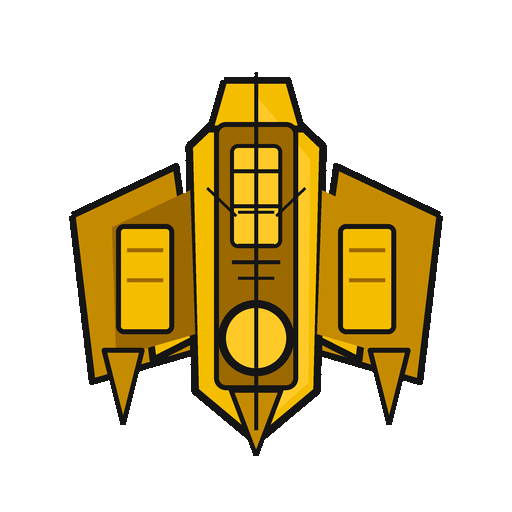
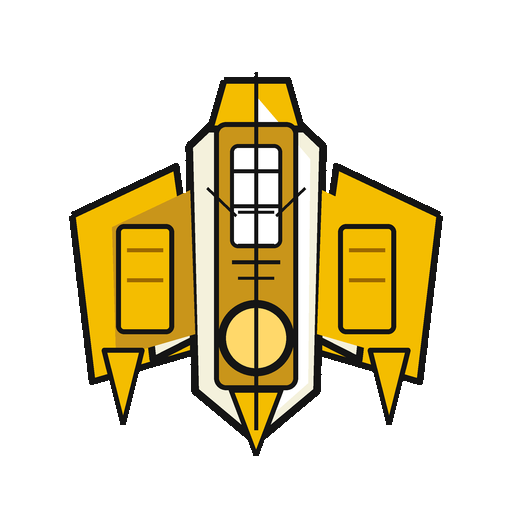
More Faction Color Rules, and Readability Work

Changed region(s): [[0.125, 0.1875, 0.875, 0.875]]

diff --git a/ReactSource/src/styles/stormCommander.css b/ReactSource/src/styles/stormCommander.css
@@ -309,7 +309,11 @@
 .storm-commander-root .storm-ship-piece {
   --storm-exhaust-core: #ff8c00;
   --storm-exhaust-flame: #ff6a00;
+  --storm-exhaust-tail: color-mix(in srgb, var(--storm-exhaust-flame) 45%, transparent);
   --storm-exhaust-glow: rgba(255, 106, 0, 0.41);
+  --storm-exhaust-glow-hot: var(--storm-exhaust-glow);
+  --storm-exhaust-scale: 1;
+  --storm-exhaust-smoke: transparent;
 
   position: relative;
   z-index: 2;
@@ -327,25 +331,35 @@
 .storm-commander-root .storm-ship-piece[data-faction='pirate'] {
   --storm-exhaust-core: #ff8c00;
   --storm-exhaust-flame: #ff6a00;
+  --storm-exhaust-tail: rgba(255, 106, 0, 0.45);
   --storm-exhaust-glow: rgba(255, 106, 0, 0.45);
+  --storm-exhaust-glow-hot: rgba(255, 138, 0, 0.34);
+  --storm-exhaust-scale: 1.1;
+  --storm-exhaust-smoke: rgba(7, 8, 6, 0.42);
 }
 
 .storm-commander-root .storm-ship-piece[data-faction='imperial'] {
-  --storm-exhaust-core: #ffe36d;
-  --storm-exhaust-flame: #f4bd00;
-  --storm-exhaust-glow: rgba(244, 189, 0, 0.41);
+  --storm-exhaust-core: #fffdf2;
+  --storm-exhaust-flame: #ffd24a;
+  --storm-exhaust-tail: rgba(244, 189, 0, 0.5);
+  --storm-exhaust-glow: rgba(255, 250, 221, 0.5);
+  --storm-exhaust-glow-hot: rgba(244, 189, 0, 0.38);
 }
 
 .storm-commander-root .storm-ship-piece[data-faction='robocorp'] {
   --storm-exhaust-core: #bde8ff;
   --storm-exhaust-flame: #55aaf2;
+  --storm-exhaust-tail: rgba(85, 170, 242, 0.45);
   --storm-exhaust-glow: rgba(85, 170, 242, 0.42);
+  --storm-exhaust-glow-hot: rgba(189, 232, 255, 0.3);
 }
 
 .storm-commander-root .storm-ship-piece[data-faction='rebel'] {
   --storm-exhaust-core: #dec5ff;
   --storm-exhaust-flame: #9a70d4;
+  --storm-exhaust-tail: rgba(154, 112, 212, 0.45);
   --storm-exhaust-glow: rgba(154, 112, 212, 0.43);
+  --storm-exhaust-glow-hot: rgba(222, 197, 255, 0.3);
 }
 
 .storm-commander-root .storm-rocket-exhaust-cluster {
@@ -358,7 +372,8 @@
   pointer-events: none;
   filter:
     drop-shadow(0 0 7px var(--storm-exhaust-glow))
-    drop-shadow(0 0 15px var(--storm-exhaust-glow));
+    drop-shadow(0 0 15px var(--storm-exhaust-glow))
+    drop-shadow(0 0 6px var(--storm-exhaust-glow-hot));
 }
 
 .storm-commander-root .storm-rocket-exhaust {
@@ -375,15 +390,16 @@
   border-radius: 999px 999px 70% 70%;
   background:
     radial-gradient(ellipse at 50% 12%, rgba(255, 255, 255, 0.92) 0 10%, transparent 22%),
+    radial-gradient(ellipse at 50% 58%, var(--storm-exhaust-smoke) 0 20%, transparent 46%),
     linear-gradient(
       to bottom,
       var(--storm-exhaust-core) 0%,
       var(--storm-exhaust-flame) 34%,
-      color-mix(in srgb, var(--storm-exhaust-flame) 45%, transparent) 66%,
+      var(--storm-exhaust-tail) 66%,
       transparent 100%
     );
   opacity: 0.67;
-  transform: translateX(var(--storm-exhaust-x)) scaleY(1);
+  transform: translateX(var(--storm-exhaust-x)) scale(var(--storm-exhaust-scale)) scaleY(1);
   transform-origin: 50% 0;
   animation: storm-rocket-exhaust-flicker 180ms infinite alternate ease-in-out;
   animation-delay: var(--storm-exhaust-delay);
@@ -421,12 +437,12 @@
 @keyframes storm-rocket-exhaust-flicker {
   0% {
     opacity: 0.55;
-    transform: translateX(var(--storm-exhaust-x)) scaleY(0.76) scaleX(0.92);
+    transform: translateX(var(--storm-exhaust-x)) scale(var(--storm-exhaust-scale)) scaleY(0.76) scaleX(0.92);
   }
 
   100% {
     opacity: 0.7;
-    transform: translateX(var(--storm-exhaust-x)) scaleY(1.08) scaleX(1.08);
+    transform: translateX(var(--storm-exhaust-x)) scale(var(--storm-exhaust-scale)) scaleY(1.08) scaleX(1.08);
   }
 }
 

diff --git a/ReactSource/src/chess/stormCommanderPieceAssets.js b/ReactSource/src/chess/stormCommanderPieceAssets.js
@@ -1,6 +1,6 @@
 export const STORM_COMMANDER_FACTION_IDS = ['pirate', 'imperial', 'robocorp', 'rebel']
 
-export const STORM_COMMANDER_ASSET_VERSION = '20260519-queen-hammerhead'
+export const STORM_COMMANDER_ASSET_VERSION = '20260520-imperial-ivory-gold'
 
 const versionStormCommanderAsset = (path) => `${path}?v=${STORM_COMMANDER_ASSET_VERSION}`
 

diff --git a/ReactSource/scripts/generateStormCommanderFleets.py b/ReactSource/scripts/generateStormCommanderFleets.py
@@ -39,11 +39,11 @@ FACTIONS = {
         "name": "Imperial",
         "accent": "#f4bd00",
         "accent_dark": "#9c6800",
-        "accent_light": "#ffca28",
-        "hull": "#c58b00",
-        "hull_light": "#d9a200",
-        "shade": "#6f4b00",
-        "metal": "#c9951a",
+        "accent_light": "#ffd86a",
+        "hull": "#f4f1dc",
+        "hull_light": "#ffffff",
+        "shade": "#c9951a",
+        "metal": "#d5a10a",
         "glow": "#ffd24a",
     },
     "robocorp": {
@@ -85,10 +85,12 @@ def faction_dominant_palette(faction, colors):
         palette["shade"] = colors["shade"]
         palette["metal"] = colors["hull_light"]
     elif faction == "imperial":
-        palette["hull"] = colors["accent"]
-        palette["hull_light"] = colors["accent_light"]
-        palette["shade"] = colors["accent_dark"]
-        palette["metal"] = colors["hull"]
+        palette["trim"] = colors["accent_dark"]
+        palette["trim_light"] = colors["accent_light"]
+        palette["hull"] = colors["hull"]
+        palette["hull_light"] = colors["hull_light"]
+        palette["shade"] = colors["shade"]
+        palette["metal"] = colors["accent"]
     return palette
 
 
@@ -357,7 +359,9 @@ def draw_role(draw, role, faction, colors):
     for part, values in ROLE_SHAPES[role]:
         if part in {"crown", "bridge", "nose", "spire"}:
             fill = colors["accent"]
-        elif part in {"hammer", "pod", "fin", "tail"}:
+        elif part == "hammer":
+            fill = colors["hull"]
+        elif part in {"pod", "fin", "tail"}:
             fill = colors["metal"] if faction != "pirate" else colors["hull"]
         else:
             fill = colors["hull"]

diff --git a/ReactSource/docs/20260501_Chessish_Storm_Commander_PNG_Piece_Library.md b/ReactSource/docs/20260501_Chessish_Storm_Commander_PNG_Piece_Library.md
@@ -59,7 +59,7 @@ The faction fleets use role-consistent silhouettes with faction-dominant finishe
 
 ```text
 Pirate: black hulls with bright bold orange panels, engines, and rugged patchwork.
-Imperial: rich gold hulls with darker gold trim and bright command panels.
+Imperial: ivory-white hulls with bold gold panels, engines, and royal trim.
 Robocorp: blue hulls with steel trim and clean technical panels.
 Rebel: purple hulls with cream trim, asymmetric streaks, and agile forms.
 ```
@@ -75,7 +75,7 @@ Knight: WWII-fighter-inspired frame with long nose, straight wings, tailplane, a
 Pawn: small patrol drone with one center engine.
 ```
 
-Rocket jets are not baked into these PNGs. The running React app adds faction-tinted exhaust as a runtime particle layer so it can flicker and rotate with the ships. Pawns use one center jet; larger ships use three jets.
+Rocket jets are not baked into these PNGs. The running React app adds faction-tinted exhaust as a runtime particle layer so it can flicker and rotate with the ships. Pawns use one center jet; larger ships use three jets. Pirate exhaust keeps the orange burn but adds black smoke and a slightly larger runtime jet. Imperial exhaust follows the same ivory/gold read as the ship art, using a white-hot core with gold flame and glow.
 
 The faction ship PNGs also avoid baked drop shadows, oval bases, and static exhaust. The generator hardens the alpha channel into crisp transparent cutouts and rejects partial-alpha ship PNGs so runtime board effects provide motion and atmosphere without a smoky halo around the sprites.
 

diff --git a/WORKLOG_SO_FAR.md b/WORKLOG_SO_FAR.md
@@ -82,7 +82,7 @@ Built pieces:
 - Faction tinting for board and highlight accents.
 - Directional starfield movement.
 - Piece rotation tied to starfield direction.
-- Faction-dominant ship palettes, with Pirate tuned as the bright-orange/black player faction, Imperial pushed richer gold, and runtime rocket exhaust using faction-tinted glow.
+- Faction-dominant ship palettes, with Pirate tuned as the bright-orange/black player faction, Imperial shifted to ivory-white hulls with bold gold signal color, and runtime rocket exhaust using faction-tinted glow.
 - Regenerated faction fleets with more distinct role silhouettes, crisp alpha cutouts with no baked oval/drop-shadow bases, a WWII-fighter-style Knight, and a smaller one-engine Pawn.
 - Pushed the Queen toward a hammerhead command-ship silhouette so it reads as a distinct high-value piece.
 - Versioned Storm Commander PNG URLs so the browser fetches regenerated ship art instead of reusing stale cached images.

diff --git a/PROJECT_CONTEXT.md b/PROJECT_CONTEXT.md
@@ -38,7 +38,7 @@ Current Storm Commander work includes:
 
 - Local PNG pieces in `ReactSource/public/assets/chess/storm-commander/pieces/`
 - Four faction fleets in `ReactSource/public/assets/chess/storm-commander/factions/`
-- Faction-dominant generated ship palettes, with Pirate locked as the bright-orange/black player faction and runtime rocket exhaust tinted by faction
+- Faction-dominant generated ship palettes, with Pirate locked as bright-orange/black, Imperial tuned as ivory-white/gold, and runtime rocket exhaust tinted by faction
 - Regenerated role-distinct ship silhouettes with crisp alpha cutouts and no baked oval shadows, including a WWII-fighter-inspired Knight profile and a smaller one-engine Pawn
 - Faction IDs and visual themes in `ReactSource/src/chess/stormCommanderPieceAssets.js`
 - Random opposing faction selection in `ReactSource/src/chess/stormCommanderFactions.js`
